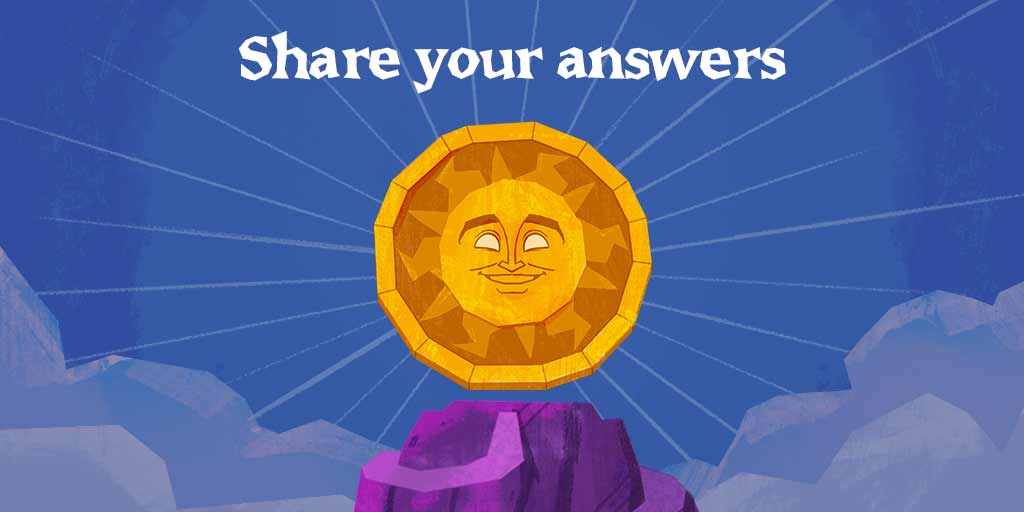
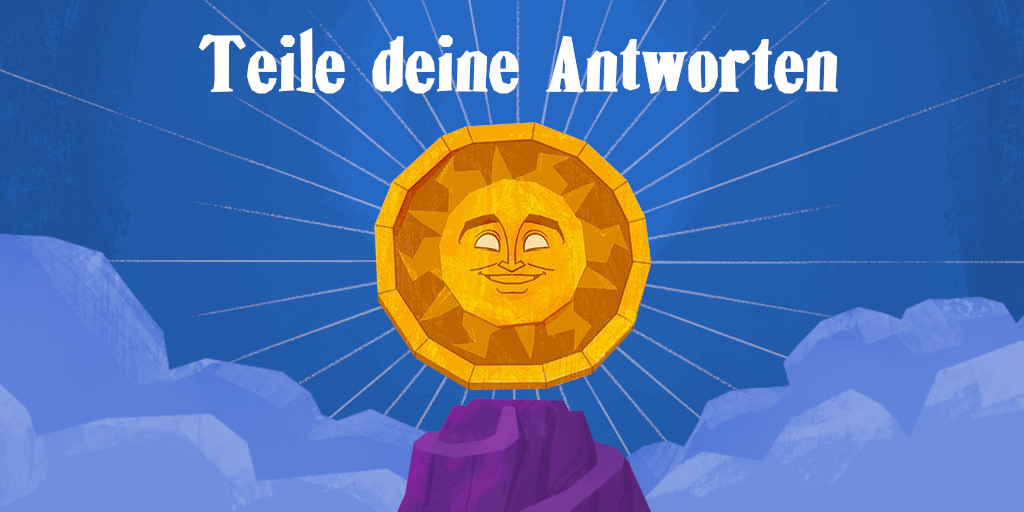
The Wheel

diff --git a/main/pp8/the-wheel/script.js b/main/pp8/the-wheel/script.js
@@ -25352,94 +25352,94 @@ ${e}`
                 })
             })
         },
-        yae = "ASK",
-        bae = "You have used a word The Wheel does not approve of. Please try again.",
-        Eae = "NO",
-        Sae = "OR",
-        Tae = "SEND",
-        Cae = "SUBMIT",
-        wae = "WAIT TO TRY AGAIN",
-        $ae = "UNDO",
-        Oae = "YES",
+        yae = "FRAGEN",
+        bae = "Du hast ein Wort benutzt, welches dem Rad nicht gefällt. Probiere es erneut.",
+        Eae = "NEIN",
+        Sae = "ODER",
+        Tae = "SENDEN",
+        Cae = "ABSENDEN",
+        wae = "WARTE KURZ",
+        $ae = "ZURÜCK",
+        Oae = "JA",
         xae = {
-            NAME: "THE AUDIENCE",
-            VOTE_NOW: "VOTE NOW",
-            THANKS: ["Thank you, dear audience.", "Every vote counts. Even yours!", "I thank you with all my enormity.", "I bestow upon you my deepest gratitude.", "Many thanks. I won't forget this."]
+            NAME: "DAS PUBLIKUM",
+            VOTE_NOW: "WÄHLE JETZT",
+            THANKS: ["Danke, verehrtes Publikum.", "Jede Stimme zählt. Sogar deine!", "Ich danke dir mit meiner gesamten unglaublichen Größe.", "Ich möchte dir meinen tiefsten Dank aussprechen.", "Hab Dank. Ich werde das nicht vergessen."]
         },
         Aae = {
-            BANNER: "WHAT AM I THINKING?",
-            INCORRECT: "TRY AGAIN",
-            CORRECT: "GOT IT",
-            PLACEHOLDER: "Enter A Guess"
+            BANNER: "WORAN DENKE ICH?",
+            INCORRECT: "VERSUCH ES NOCHMAL",
+            CORRECT: "ALLES KLAR",
+            PLACEHOLDER: "Gib eine Vermutung ein"
         },
         Lae = {
-            BANNER: "COUNTERPARTS",
-            CORRECT: "MATCH",
-            FROZEN: "INCORRECT"
+            BANNER: "GEGENSÄTZE",
+            CORRECT: "PASST",
+            FROZEN: "FALSCH"
         },
         Iae = {
-            BANNER: "ENUMERATE"
+            BANNER: "SCHÄTZEN"
         },
         Mae = {
-            PLACE: "PLACE YOUR SLICES",
-            SUBMIT: "DONE! PRESS SUBMIT",
-            THANKS: "NICE JOB"
+            PLACE: "PLATZIERE DEINE SCHEIBEN",
+            SUBMIT: "FERTIG! DRÜCKE AUF SENDEN",
+            THANKS: "GUTE ARBEIT"
         },
         Pae = {
-            BANNER: "WELCOME",
-            PLACEHOLDER: "Enter A Question"
+            BANNER: "WILLKOMMEN",
+            PLACEHOLDER: "Gib eine Frage ein"
         },
         Rae = {
-            BANNER: "THAT [small]OR[/small] THIS",
-            CORRECT: "CORRECT",
-            FROZEN: "INCORRECT"
+            BANNER: "DIES [small]ODER[/small] DAS",
+            CORRECT: "RICHTIG",
+            FROZEN: "FALSCH"
         },
         Nae = {
-            ANSWER_BANNER: "YOU WIN!",
-            MAIN_BANNER: "SPIN [small]THE[/small] WHEEL",
-            RAINBOW_BANNER: "RAINBOW WHEEL",
-            WIN_BANNER: "FOR [small]THE[/small] WIN"
+            ANSWER_BANNER: "GEWONNEN!",
+            MAIN_BANNER: "DREH [small]DAS[/small] RAD",
+            RAINBOW_BANNER: "REGENBOGEN RAD",
+            WIN_BANNER: "FÜR [small]DEN[/small] SIEG"
         },
         kae = {
-            OBJECTIVE_BANNER: "DON'T FORGET TO WRITE",
-            SUBJECTIVE_BANNER: "SUBJECTIVELY YOURS",
-            CORRECT: "GOOD",
-            TAKEN: "ANSWERED",
-            OBJECTIVE_INCORRECT: "WRONG",
+            OBJECTIVE_BANNER: "VERGISS NICHT ZU SCHREIBEN",
+            SUBJECTIVE_BANNER: "RUNDE GRÜSSE",
+            CORRECT: "KLASSE",
+            TAKEN: "GEANTWORTET",
+            OBJECTIVE_INCORRECT: "FALSCH",
             SUBJECTIVE_INCORRECT: "NOPE",
-            PLACEHOLDER: "Enter A Guess"
+            PLACEHOLDER: "Gib eine Vermutung ab"
         },
         Dae = {
-            SPIN: '[player avatar="{avatar}"]{name}[/player] is the spinner',
-            MESSAGES: ["Remember... patience is a virtue.", "This is a blank screen. Or is it?", "Action awaits!", "Oh, the waiting. The waiting!", "Just wait till the next part!", "Hey, nice controller! Sorry, just making conversation.", "(Insert on-hold music here)", "Sit tight, little meeple.", "I believe in you. Shhh... don't tell anyone.", "It's about to get exciting in here.", "Nothing to see here.", "Behold... a screen with only these words on it.", "Property of the Wheel of Enormous Proportions", "The Wheel Was Here"]
+            SPIN: '[player avatar="{avatar}"]{name}[/player] ist dran',
+            MESSAGES: ["Denk dran... Geduld ist eine Tugend", "Dieser Bildschirm ist leer. Oder auch nicht?", "Das Abenteuer wartet!", "Oh, warten. Ich liebe warten!", "Warte einfach bis es weitergeht!", "Hey, schickes Gerät! Sorry, ich wollte nur was nettes sagen.", "(Hier Aufzugmusik einfügen)", "Setz dich, mein Lieber.", "Ich glaube an dich. Psst, sag es aber keinem.", "Gleich wird es großartig.", "Hier gibt es nichts zu sehen.", "Sieh her... ein Bildschirm nur mit diesen Worten drauf.", "Eigentum des Rads von unglaublicher Größe.", "Das Rad war hier."]
         },
         Bae = {
-            ANSWER: "answer slice.",
-            AUDIENCE: "audience slice.",
-            BAD: "skull slice.",
-            BONUS: "power slice for {for}.",
-            EMPTY: "empty.",
-            MULTIPLIER: "empty {multiplier}x multiplier.",
-            NEIGHBOR: "neighbor slice.",
-            PLAYER: "player slice for {for}.",
-            POINTS: "{points} point slice.",
-            POINTS_FOR: "points slice for {for}.",
-            RESERVED: "reserved for {for}.",
-            WINNER: "winner slice for {for}.",
-            KEEP_GOING: "keep going.",
-            SPIN_POWER: "{power} percent power spin.",
-            SPIN: "swipe down or tap quickly to spin",
-            SLICE_COUNT: "you have 0 slices. | you have 1 slice. | you have {count} slices.",
-            YOU_CAN_WIN: "You now have enough points to win.",
-            YOUR_AVATAR: "Your avatar is",
-            PLAYER1: "the royal",
-            PLAYER2: "the knight",
-            PLAYER3: "the mummy",
-            PLAYER4: "the robot",
-            PLAYER5: "the witch",
-            PLAYER6: "the clown",
-            PLAYER7: "the mermaid",
-            PLAYER8: "the astroman"
+            ANSWER: "Antwortenscheibe.",
+            AUDIENCE: "Publikumsscheibe.",
+            BAD: "Schädelscheibe.",
+            BONUS: "Kraftscheibe für {for}.",
+            EMPTY: "leer.",
+            MULTIPLIER: "leerer {multiplier}x Multiplizierer.",
+            NEIGHBOR: "Nachbarscheibe.",
+            PLAYER: "Spielerscheibe für {for}.",
+            POINTS: "{slice.data.points} Punktescheibe.",
+            POINTS_FOR: "Punktescheibe für {for}.",
+            RESERVED: "Reserviert für {for}.",
+            WINNER: "Gewinnerscheibe für {for}.",
+            KEEP_GOING: "mach weiter.",
+            SPIN_POWER: "{power} Prozent Kraftdreher.",
+            SPIN: "nach unten wischen oder schnell tippen zum drehen",
+            SLICE_COUNT: "Du hast 0 Scheiben. | Du hast 1 Scheibe. | Du hast {count} Scheiben.",
+            YOU_CAN_WIN: "Du hast jetzt genug Punkte, um zu gewinnen.",
+            YOUR_AVATAR: "Dein Avatar ist",
+            PLAYER1: "der Königliche",
+            PLAYER2: "der Ritter",
+            PLAYER3: "die Mumie",
+            PLAYER4: "der Roboter",
+            PLAYER5: "die Hexe",
+            PLAYER6: "der Clown",
+            PLAYER7: "die Meerjungfrau",
+            PLAYER8: "der Astronaut"
         },
         Fae = {
             ASK: yae,
